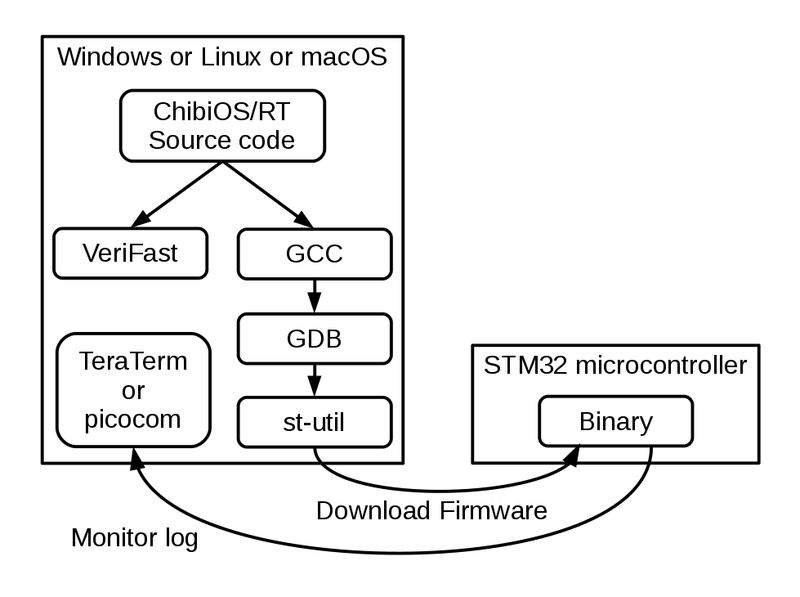
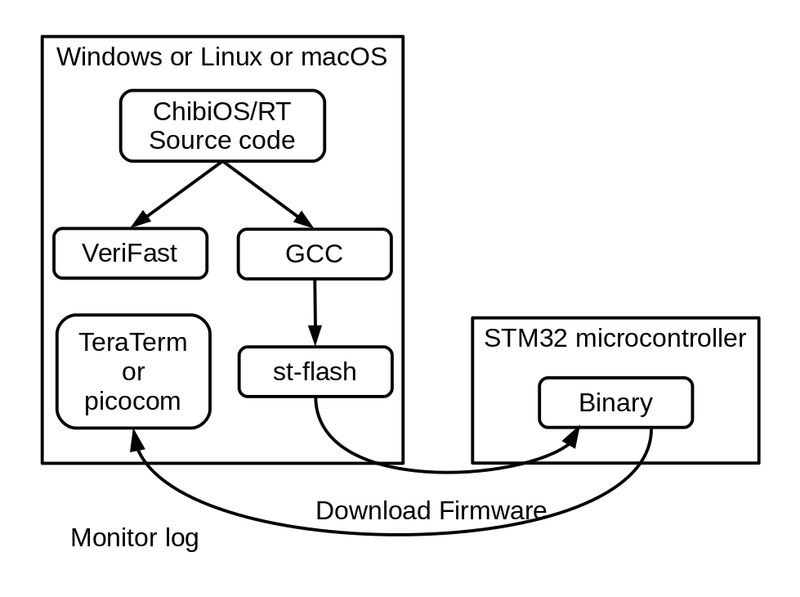
Re-fine for today

diff --git a/presentations/20170806_verifast_stm32_osaka/20170806_verifast_stm32_osaka.md b/presentations/20170806_verifast_stm32_osaka/20170806_verifast_stm32_osaka.md
@@ -47,13 +47,13 @@ Detail: https://github.com/fpiot/chibios-verifast/blob/master/doc/README.Windows
 * https://launchpad.net/gcc-arm-embedded/+download
 * https://ttssh2.osdn.jp/index.html.en
 * https://cygwin.com/
+* http://www.st.com/en/embedded-software/stsw-link009.html
 ```
 
 * Install following cygwin packages
 
 ```
-* cmake
-* libusb1.0-devel
+cmake / gcc-core (5.3.0) / libusb1.0-devel / make
 ```
 
 # Get the devel-environment #Windows
@@ -66,6 +66,7 @@ Detail: https://github.com/fpiot/chibios-verifast/blob/master/doc/README.Windows
 $ git clone https://github.com/texane/stlink.git
 $ (cd stlink && make)
 $ (cd stlink/build/Release && make install)
+$ cp /usr/local/lib/cygstlink-shared-1.dll /usr/local/bin/
 ```
 
 * Download VeriFast from following URL, unzip it and set PATH to "verifast-XXXXXXX/bin" directory.
@@ -213,27 +214,11 @@ https://developer.mbed.org/platforms/ST-Nucleo-F091RC/
 ![background](img/microsoft.png)
 
 * Connect the board to your PC using USB cable
-* Open cygwin terminal, run "st-util":
-
-```
-$ (cd /usr/local/lib && st-util)
-```
-
-* Open another cygwin terminal, and dowload application into the board:
+* Open cygwin terminal, and dowload application into the board:
 
 ```
 $ cd chibios-verifast/verifast_demo/STM32/RT-STM32F091RC-NUCLEO
-$ make gdbwrite
-```
-
-# How to run application? #Windows
-
-![background](img/microsoft.png)
-
-* Continue application from GDB prompt:
-
-```
-(gdb) c
+$ make flash
 ```
 
 * Open serial console using TeraTerm with baud rate 9600
@@ -244,30 +229,14 @@ $ make gdbwrite
 ![background](img/imac.png)
 
 * Connect the board to your Mac using USB cable
-* Run "st-util":
-
-```
-$ st-util
-```
-
-* Open another terminal, and download application into the board:
+* Download application into the board:
 
 ```
 $ cd chibios-verifast/verifast_demo/STM32/RT-STM32F091RC-NUCLEO
-$ make gdbwrite
+$ make flash
 ```
 
-# How to run application? #macOS
-
-![background](img/imac.png)
-
-* Continue application from GDB prompt:
-
-```
-(gdb) c
-```
-
-* Open another terminal, and open serial console:
+* Open serial console:
 
 ```
 $ picocom -b 9600 /dev/tty.usbmodem1423
@@ -280,30 +249,14 @@ $ picocom -b 9600 /dev/tty.usbmodem1423
 ![background](img/27050425-gnu-wallpapers.png)
 
 * Connect the board to your PC using USB cable
-* Run "st-util":
-
-```
-$ sudo st-util
-```
-
-* Open another terminal, and download application into the board:
+* Download application into the board:
 
 ```
 $ cd chibios-verifast/verifast_demo/STM32/RT-STM32F091RC-NUCLEO
-$ make gdbwrite
+$ make flash
 ```
 
-# How to run application? #Linux
-
-![background](img/27050425-gnu-wallpapers.png)
-
-* Continue application from GDB prompt:
-
-```
-(gdb) c
-```
-
-* Open another terminal, and open serial console:
+* Open serial console:
 
 ```
 $ picocom -b 9600 /dev/ttyACM0
@@ -340,6 +293,7 @@ $ picocom -b 9600 /dev/ttyACM0
 
 * https://github.com/verifast/verifast
 * A verifier for single-threaded and multi-threaded C and Java language programs annotated with preconditions and postconditions written in separation logic.
+* VeriFast avoids illegal memory accesses such like buffer overflow.
 * VeriFast is easy to use with the graphical IDE.
 
 # Get started with simple example
@@ -687,12 +641,28 @@ https://speakerdeck.com/eldesh/tppmark2016-wojie-kinagaraxue-bu-verifast
 https://speakerdeck.com/eldesh/verifast-termination-checking-introduction-a
 ```
 
+# 簡約!? λカ娘10 @ 参照透明な海を守る会
+
+![background](img/c92-ikmsm.png)
+
+* コミックマーケット92 - 1日目 金曜日 東た11b
+* http://www.paraiso-lang.org/ikmsm/books/c92.html
+
+```
+* 第1章 モナドとひも
+* 第2章 矢澤にこ先輩と一緒にモナドモナド!
+* 第3章 Coqダンジョン: 底抜けの壺の夢
+* 第4章 IST(Internal Set Theory) 入門 (後編)
+* 第5章 静的コード解析はいいぞ!
+* 第6章 VeriFastチュートリアル
+````
+
 # Special thanks
 
 ![background](img/thankyou.png)
 
 * STMicroelectronics provides STM32 boards.
-* Misoca provides this meeting room.
+* Fenrir Inc. provides this meeting room.
 * \@ruicc supports macOS environment.
 * \@eldesh supports Windows environment, and gives much advice for usage of VeriFast.
 
